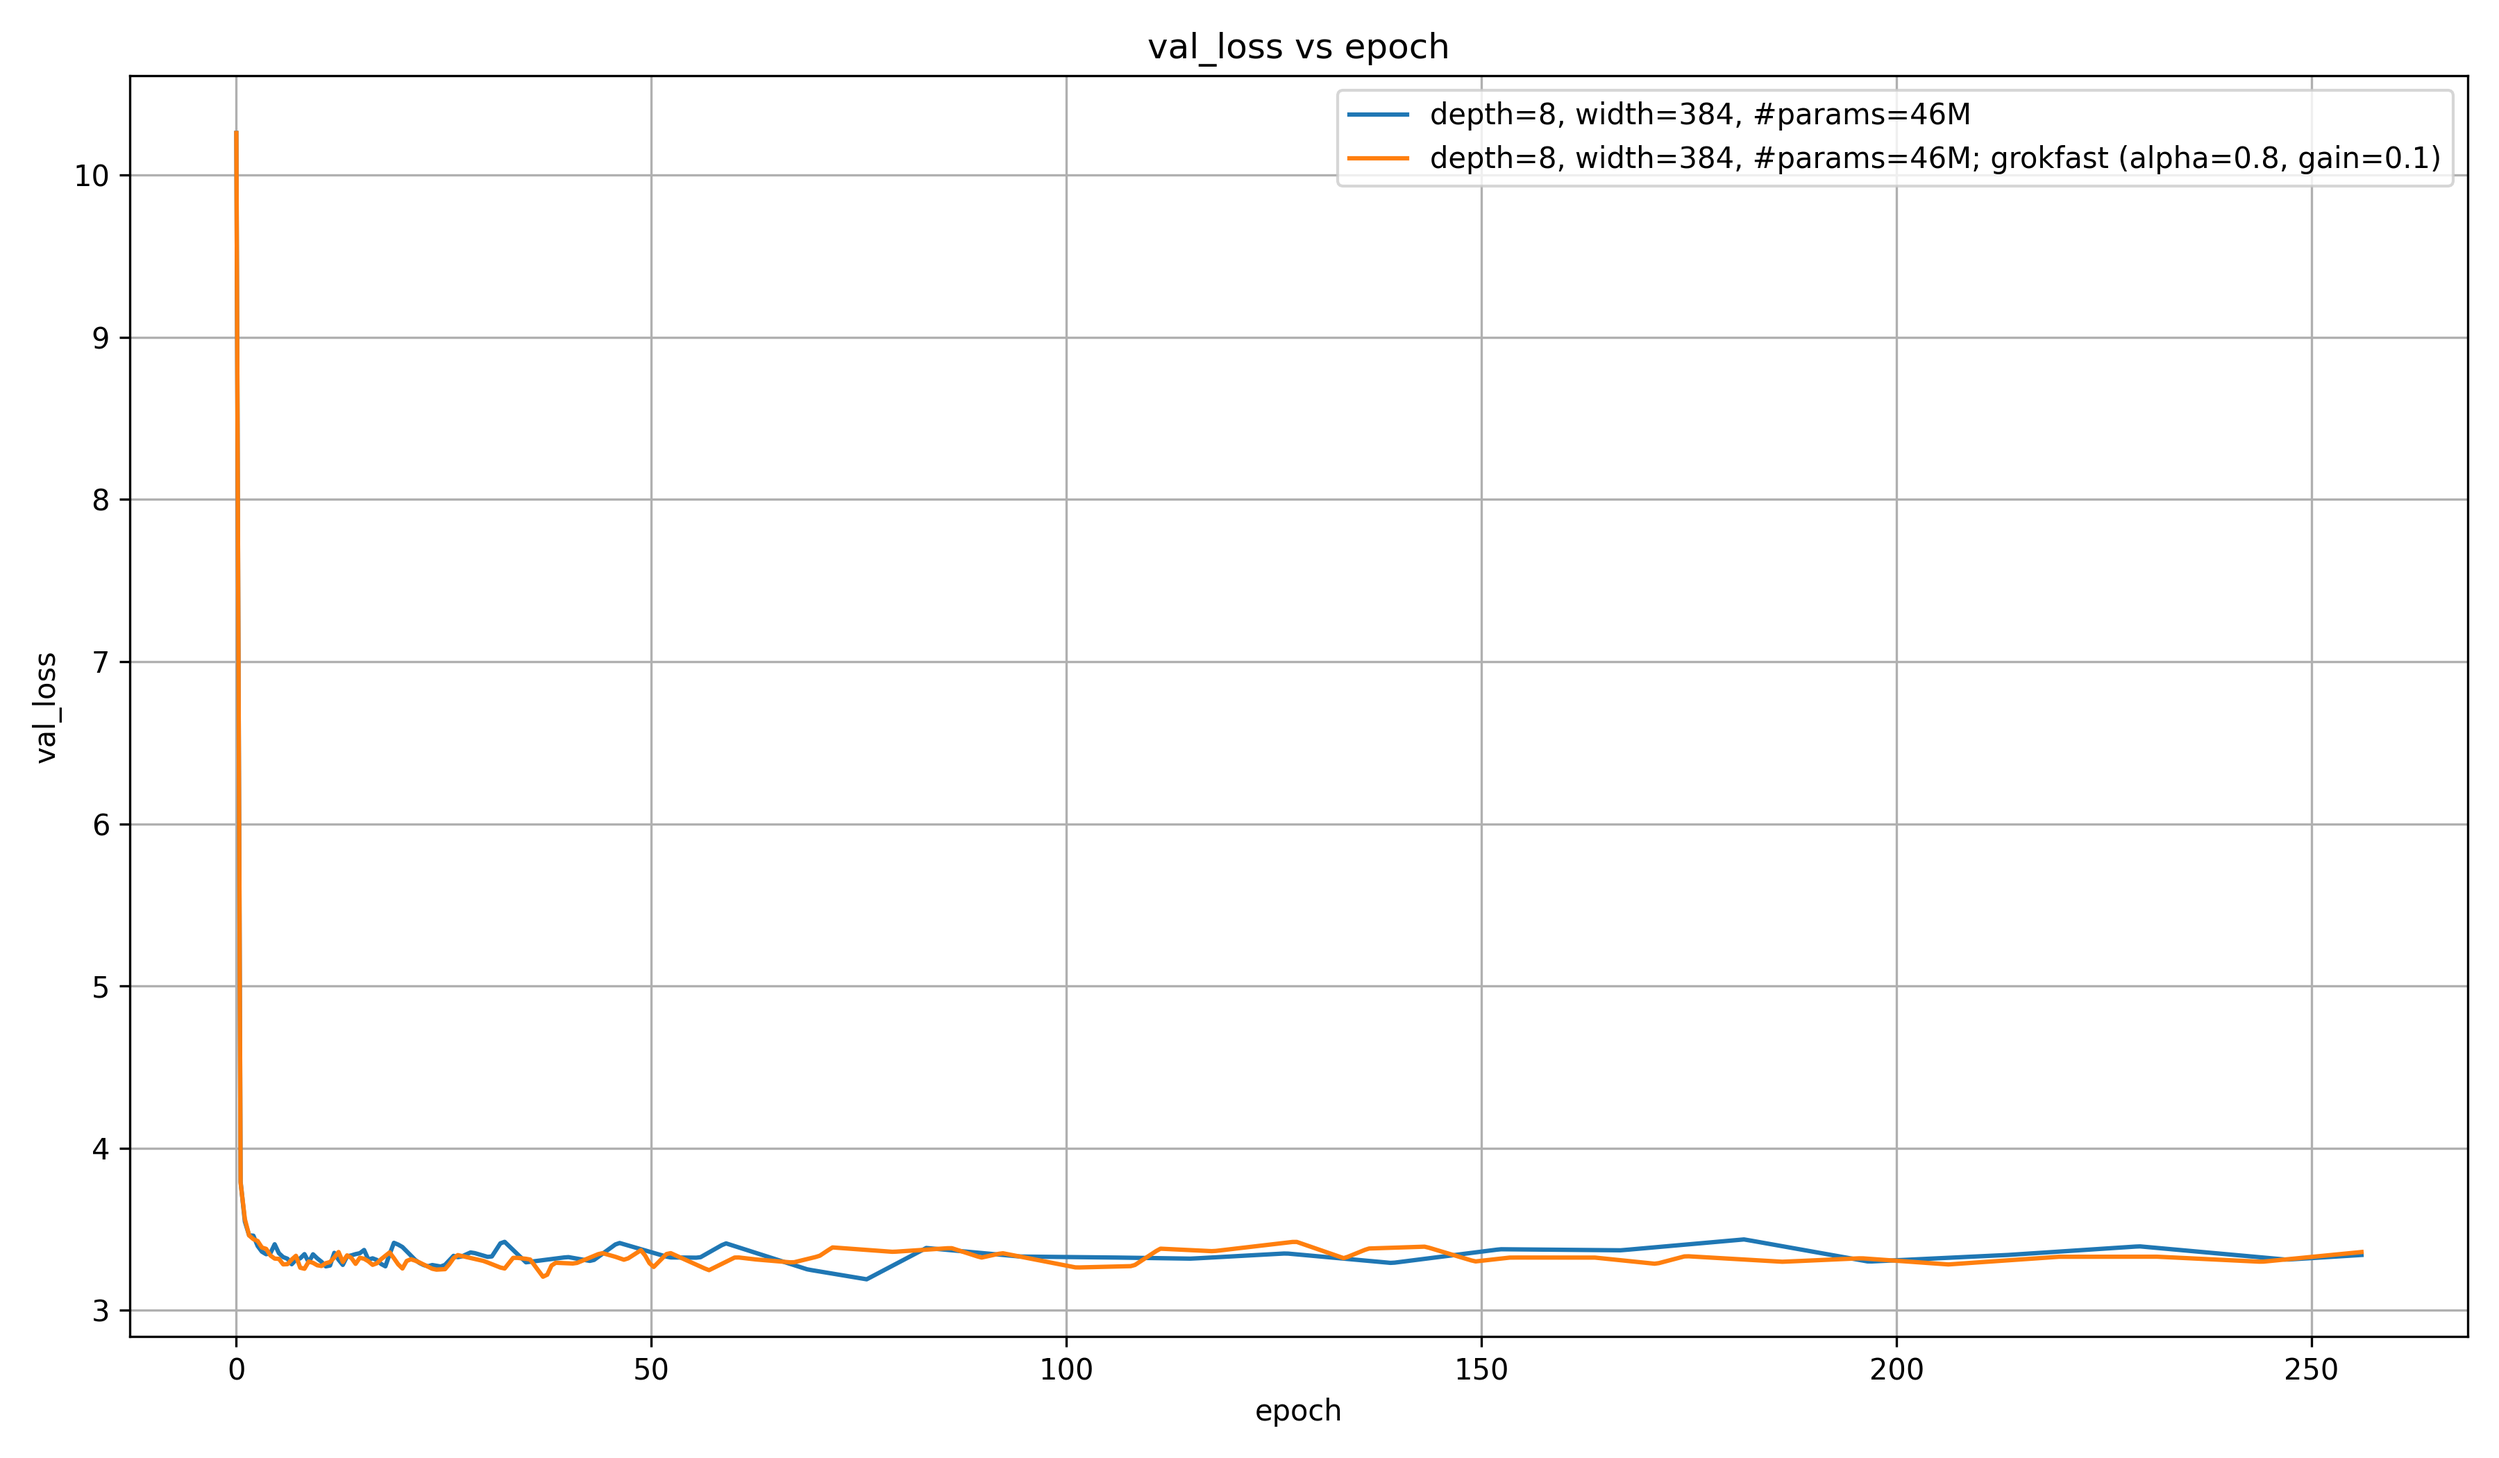
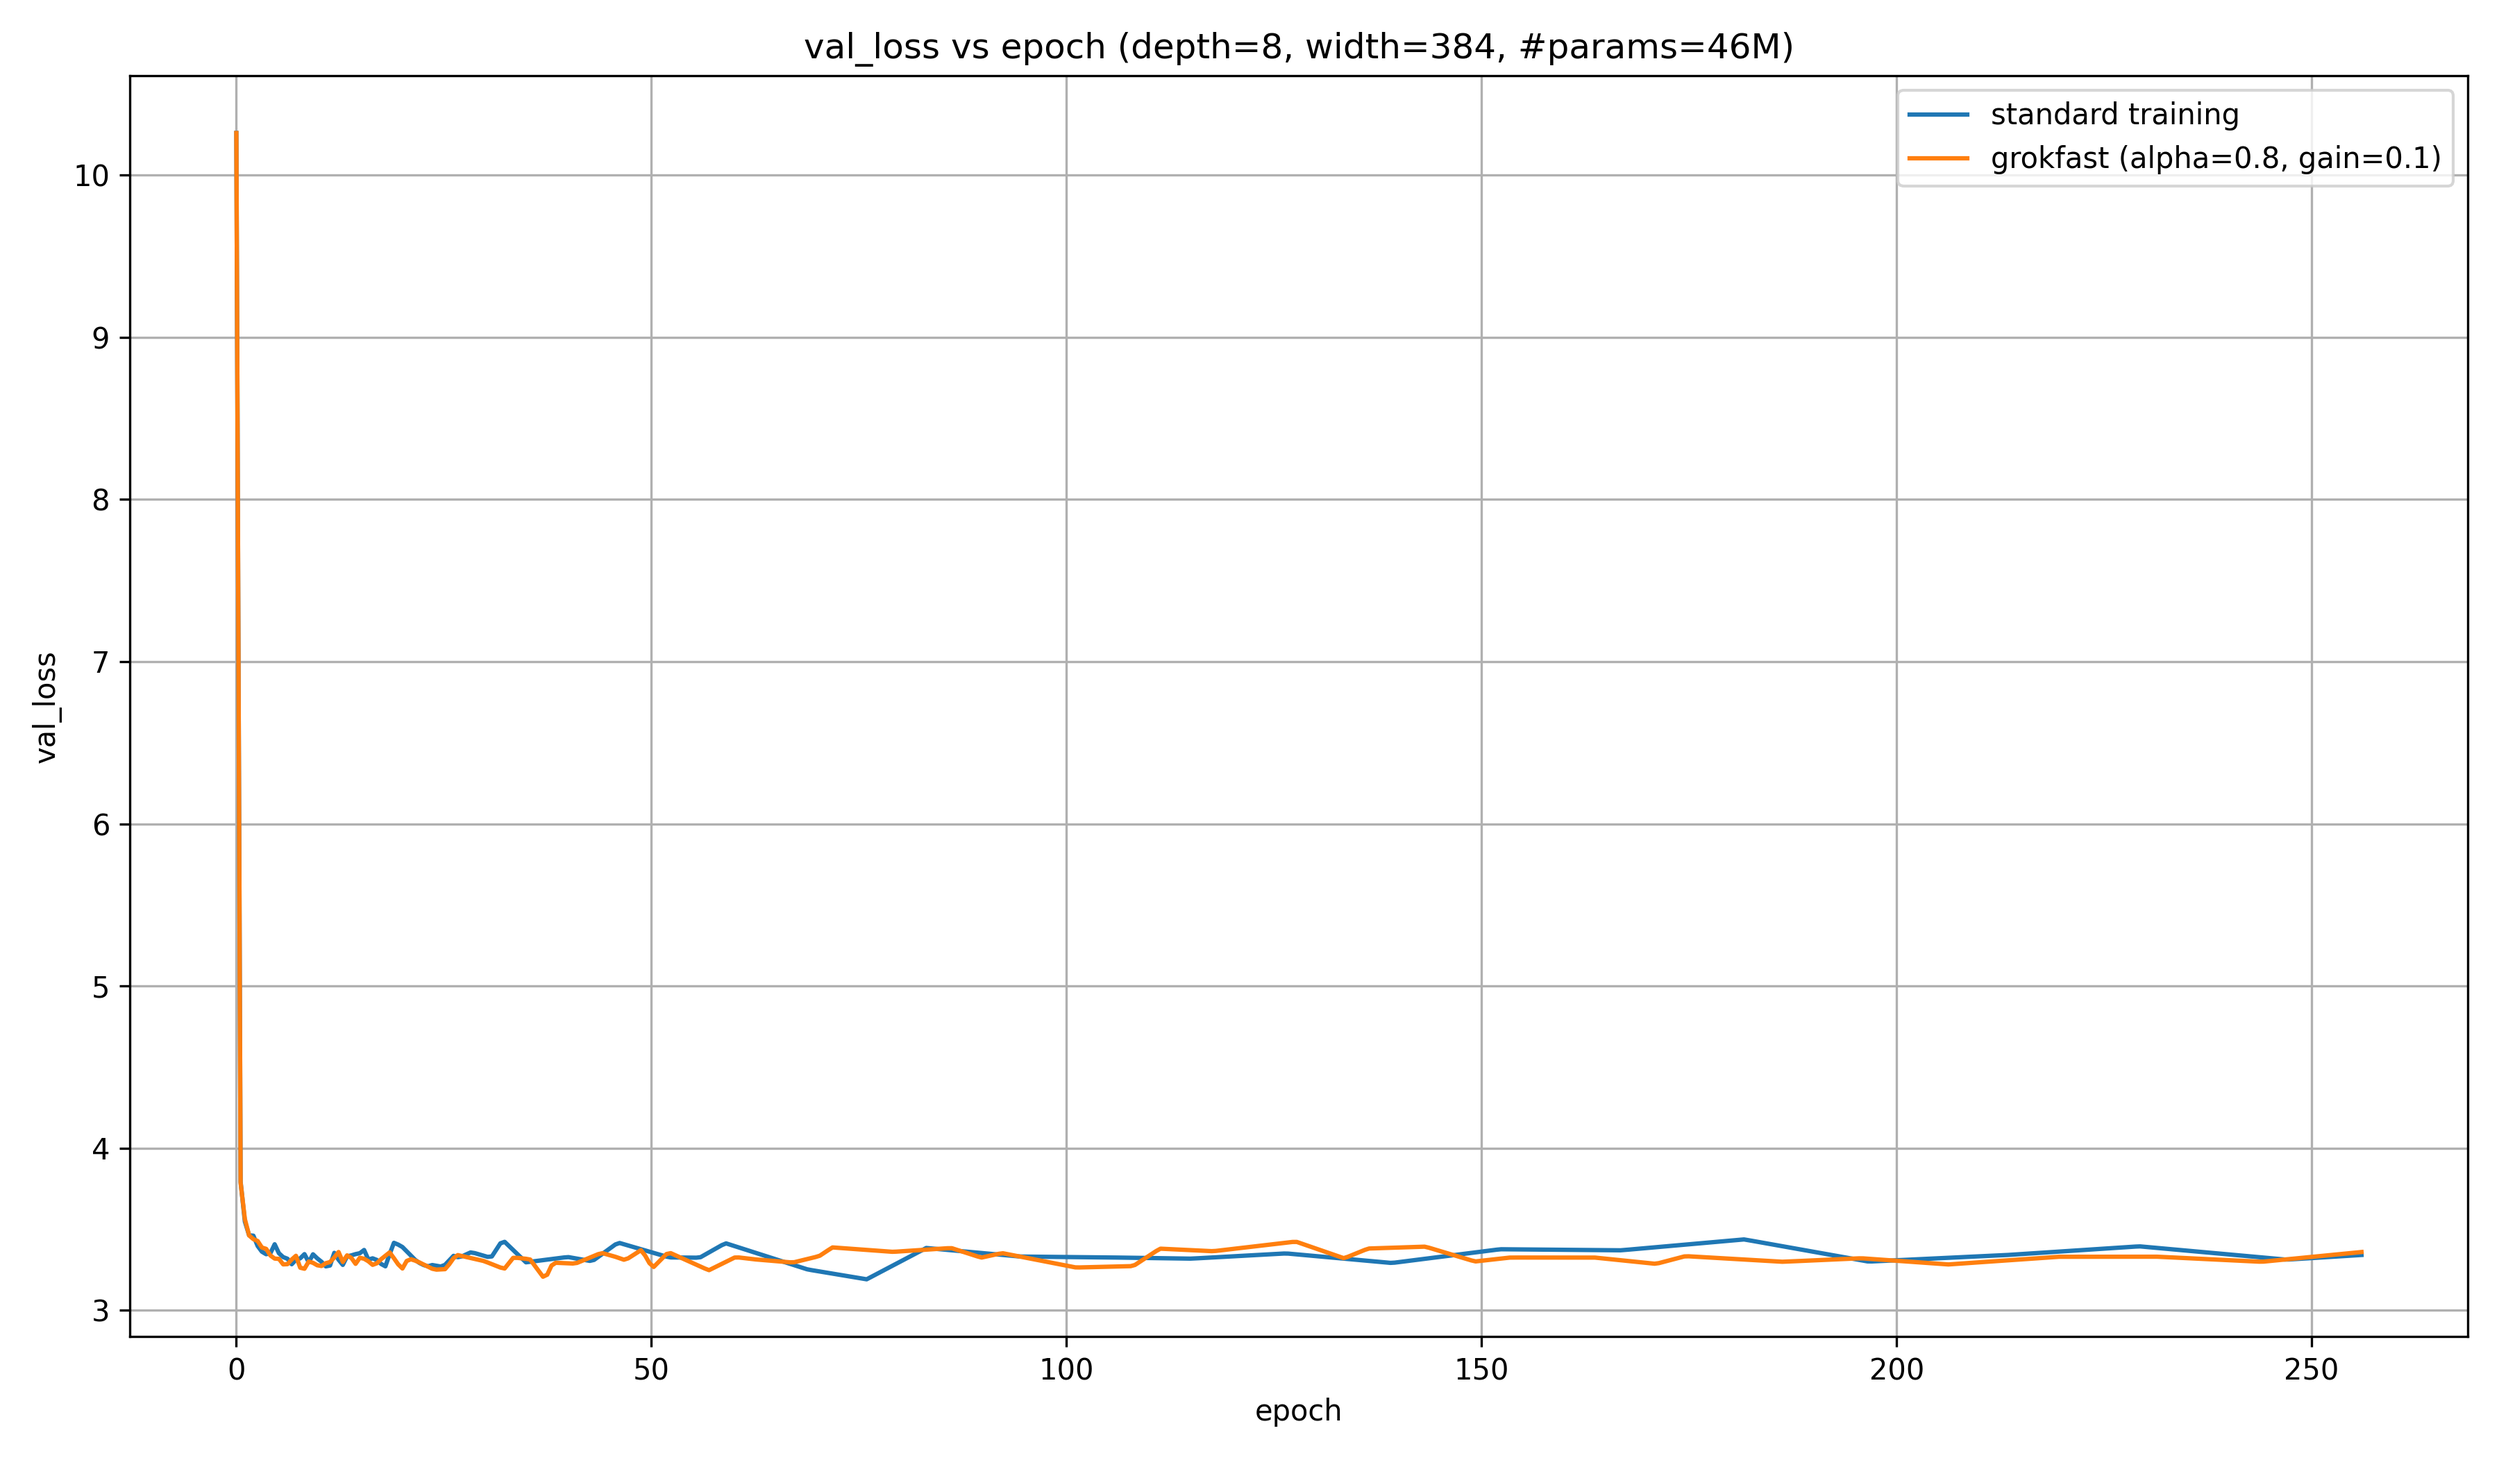
Updated plots and README

Changed region(s): [[0.4044, 0.0, 0.9022, 0.1238], [0.3422, 0.031, 0.3733, 0.0619]]

diff --git a/plot_results.py b/plot_results.py
@@ -315,15 +315,16 @@ def plot_line(
         & (pl.col("gain") == gain)
     ).collect()["num_params"][0]
     
-    label = (
-        f"depth={depth}, width={width}, #params={format_num_params(num_params)}"
-    )
     if grokfast:
-        label += f"; grokfast (alpha={alpha}, gain={gain})"
+        label = f"grokfast (alpha={alpha}, gain={gain})"
+    else:
+        label = "standard training"
     if loglog:
         plt.loglog(xs, avg_ys, color=color if plot_all else None, label=label)
     else:
         plt.plot(xs, avg_ys, color=color if plot_all else None, label=label)
+
+    return num_params
 
 
 def example_plot_fct(
@@ -360,7 +361,7 @@ def example_plot_fct(
     colors = generate_distinct_colors(len(settings))
 
     for color, (num_heads_, linear_value_, depth_, width_, alpha_, gain_, grokfast) in zip(colors, settings):
-        plot_line(
+        num_params = plot_line(
             color=color,
             use_unique_colors=use_unique_colors,
             plot_all=plot_all,
@@ -385,7 +386,7 @@ def example_plot_fct(
     plt.ylabel(to_plot)
     plt.legend()
     plt.grid()
-    plt.title(f"{to_plot} vs {plot_over}")
+    plt.title(f"{to_plot} vs {plot_over} (depth={depth_}, width={width_}, #params={format_num_params(num_params)})")
     plt.tight_layout()
     if show:
         plt.show()
@@ -457,30 +458,30 @@ def n_best_vals(
 
 if __name__ == "__main__":
     file = "results/results_many_epochs.csv"
-    # example_plot_fct(
-    #     file=file,
-    #     depth=None,
-    #     width=None,
-    #     num_heads=None,
-    #     linear_value=None,
-    #     alpha=0.8,
-    #     gain=None,
-    #     to_plot="val_loss",
-    #     plot_over="epoch",
-    #     show=True,
-    #     loglog=False,
-    #     plot_all=False,
-    #     from_sample=None,
-    #     to_sample=None,
-    # )
-    n_best_vals(
+    example_plot_fct(
         file=file,
-        n=5,
-        best_is="min",
-        metric="val_loss",
-        alpha=None,
-        gain=None,
-        grokfast=None,
+        depth=None,
+        width=None,
+        num_heads=None,
+        linear_value=None,
+        alpha=0.8,
+        gain=0.1,
+        to_plot="val_loss",
+        plot_over="epoch",
+        show=False,
+        loglog=False,
+        plot_all=False,
         from_sample=None,
-        to_sample=50,
+        to_sample=None,
     )
+    # n_best_vals(
+    #     file=file,
+    #     n=5,
+    #     best_is="min",
+    #     metric="val_loss",
+    #     alpha=None,
+    #     gain=None,
+    #     grokfast=None,
+    #     from_sample=None,
+    #     to_sample=50,
+    # )

diff --git a/README.md b/README.md
@@ -9,6 +9,14 @@ Quick summary:
 - It also doesn't hurt performance
 - Therefore, it might be helpful for improving performance on algorithmic tasks without hurting it on regular language tasks
 
+Table of contents:
+
+- [Background](#background)
+- [Results](#results)
+- [Summary and discussion](#summary-and-discussion)
+- [Acknowledgement](#acknowledgement)
+
+
 ## Background
 
 $\mathrm{grokfast}$ works on the assumption that low-frequency parts of gradients carry the most signal.
@@ -45,7 +53,9 @@ def grokfast(net: torch.Module, alpha: float, gain: float):
             parameter.grad += gain * parameter.grad_ema
 ```
 
-The authors show that this helps LLMs grok modular addition much faster than regular training.
+The authors recommend to use $\alpha \in \left[0.8, 0.99\right]$ and $\lambda \in \left[0.1, 5.0\right]$.
+
+They show that $\mathrm{grokfast}$ helps LLMs grok modular addition much faster than regular training.
 
 ## Results
 
@@ -74,7 +84,7 @@ As you can see, you can see nothing. So here is the average of the $5$ lowest va
 Clearly, not using $\mathrm{grokfast}$ seems to be best.
 The best alternative settings are $\alpha=0.9$, $\lambda=0.5$/$\lambda=0.1$.
 These are the least aggressive settings.
-I will only plot $\alpha=0.9$, $\lambda=0.5$ from now on.
+I will only plot $\alpha=0.9$, $\lambda=0.1$ from now on.
 Why do I plot anything at all?
 Well, it's possible that $\mathrm{grokfast}$ does help in early settings,
 so let's look at the first ~$25$ epochs:
@@ -128,20 +138,20 @@ Again: no. The two runs seem identical. The statistics say the same:
 
 On the one hand, $\mathrm{grokfast}$ doesn't seem to improve the performance of regular LLMs on normal language tasks.
 
-This isn't super surprising; wikitext cannot really be reduced to a simple algorithm, the way that modular addition can.
+This isn't super surprising; wikitext cannot really be reduced to a simple algorithm, the way that modular addition can, so what would $\mathrm{grokfast}$ be helping with?
 
 On the other hand, $\mathrm{grokfast}$ doesn't seem to *reduce* performance on those regular tasks; so if it does work on modular addition (or similar tasks), it could help improve LLM performance on tasks that can be reduced to algorithms, like addition or multiplication, while keeping performance on other tasks constant.
 
 That seems like a big win!
 
 
-## Acknoledgements
+## Acknowledgement
 
 The $\mathrm{grokfast}$ paper, again: https://arxiv.org/abs/2405.20233
 
 This package is based on my own [hlb-gpt-cli](https://github.com/snimu/hlb-gpt-cli),
 which is in turn based on [Fern](https://github.com/tysam-code)'s [hlb-gpt](https://github.com/tysam-code/hlb-gpt),
-who wants to be cited in the following way:
+who can be cited in the following way:
 
 ```
 cff-version: 1.2.0
